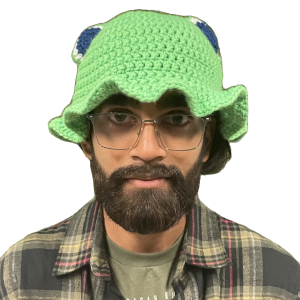
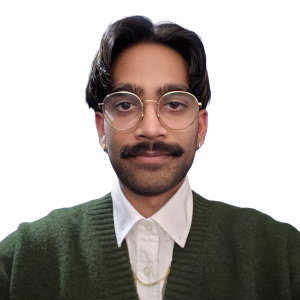
2026 refresh

diff --git a/index.html b/index.html
@@ -119,29 +119,26 @@
                             </div>
                             <div class="dropdown-content">
                                 <hr />
-                                <p>
-                                    - Revamped the internal process of migrating
-                                    SVN to Git repositories from a multi-week process to a
-                                    one-day process
-                                </p>
-                                <p>
-                                    - Architected a feature in the PubSub+
-                                    Messaging API For C, involving design,
-                                    implementation, and testing
-                                </p>
-                                <p>
-                                    - Designed, implemented, and tested a
-                                    feature in the PubSub+ Python API
-                                </p>
-                                <p>
-                                    - Organized the migration of repositories to
-                                    open source the Wireshark SMF Plugin
-                                </p>
-                                <p>
-                                    - Used GitHub Actions to automate releases
-                                    for the Wireshark SMF Plugin
-                                </p>
-                                <p>- Winning team of an internal hackathon</p>
+								<ul>
+									<li>
+										Streamlined SVN to Git migration, cutting a multi-week process down to single-day task
+									</li>
+									<li>
+										Architected, implemented, and tested a new feature for the Solace Messaging API for C, preventing erroneous API states and saving bandwidth usage across multiple Solace messaging APIs 
+									</li>
+									<li>
+										Designed and unit tested a feature for the Solace Python API, enabling users to send compressed messages
+									</li>
+									<li>
+										Led the migration and open-source release of the Wireshark SMF Plugin, improving community initiatives
+									</li>
+									<li>
+										Built a workflow using GitHub Actions that creates plugin releaser, automating the entire process
+									</li>
+									<li>
+										Won an internal hackathon by designing a dynamic AI system to help navigate documentation
+									</li>
+								</ul>
                             </div>
                         </div>
                     </div>
@@ -157,21 +154,17 @@
                             </div>
                             <div class="dropdown-content">
                                 <hr />
-                                <p>
-                                    - Used GitHub Actions to automate testing
-                                    workflows that generate reports, increasing
-                                    visibility of bugs
-                                </p>
-                                <p>
-                                    - Implemented AWS RUM with custom metadata
-                                    for error logs to improve the debugging
-                                    process
-                                </p>
-                                <p>
-                                    - Wrote complex end-to-end tests for
-                                    interactive elements using Cypress, reducing
-                                    manual test requirements
-                                </p>
+								<ul>
+									<li>
+										Set up GitHub Actions workflows to automate tests and generate reports, increasing visibility of bugs
+									</li>
+									<li>
+										Implemented AWS RUM with custom metadata for error logs, leading to improved bug tracking
+									</li>
+									<li>
+										Developed end-to-end Cypress tests for key interactive workflows, reducing manual test requirements by 40%
+									</li>
+								</ul>
                             </div>
                         </div>
                     </div>
@@ -190,12 +183,17 @@
                             </div>
                             <div class="dropdown-content">
                                 <hr />
-                                <p>
-                                    - Executed and verified manual text cases to
-                                    ensure reliability of applications used by
-                                    >10 000 Government employees.
-                                </p>
-                                <p>- Learned Microsoft Azure DevOps</p>
+								<ul>
+									<li>
+										Verified manual test cases for government applications used by 10 000+ employees, ensuring reliability
+									</li>
+									<li>
+										Collaborated with IT and development teams to document test procedures, improving traceability
+									</li>
+									<li>
+										Contributed to the CI/CD pipeline by creating and maintaining test scripts, enabling higher software quality
+									</li>
+								</ul>
                             </div>
                         </div>
                     </div>
@@ -211,15 +209,14 @@
                             </div>
                             <div class="dropdown-content">
                                 <hr />
-                                <p>
-                                    - Explored Git, Docker, and agile practices
-                                    as a high school student.
-                                </p>
-                                <p>
-                                    - Developed a Java program that standardized
-                                    .properties files, automating document
-                                    cleanup.
-                                </p>
+								<ul>
+									<li>
+										Developed a Java utility that parsed, standardized, and cleaned customer .properties files, automating document cleanup and eliminating manual editing
+									</li>
+									<li>
+										Leveraged Git, Docker, and agile methodology, gaining early experience in developer practices
+									</li>
+								</ul>
                             </div>
                         </div>
                     </div>